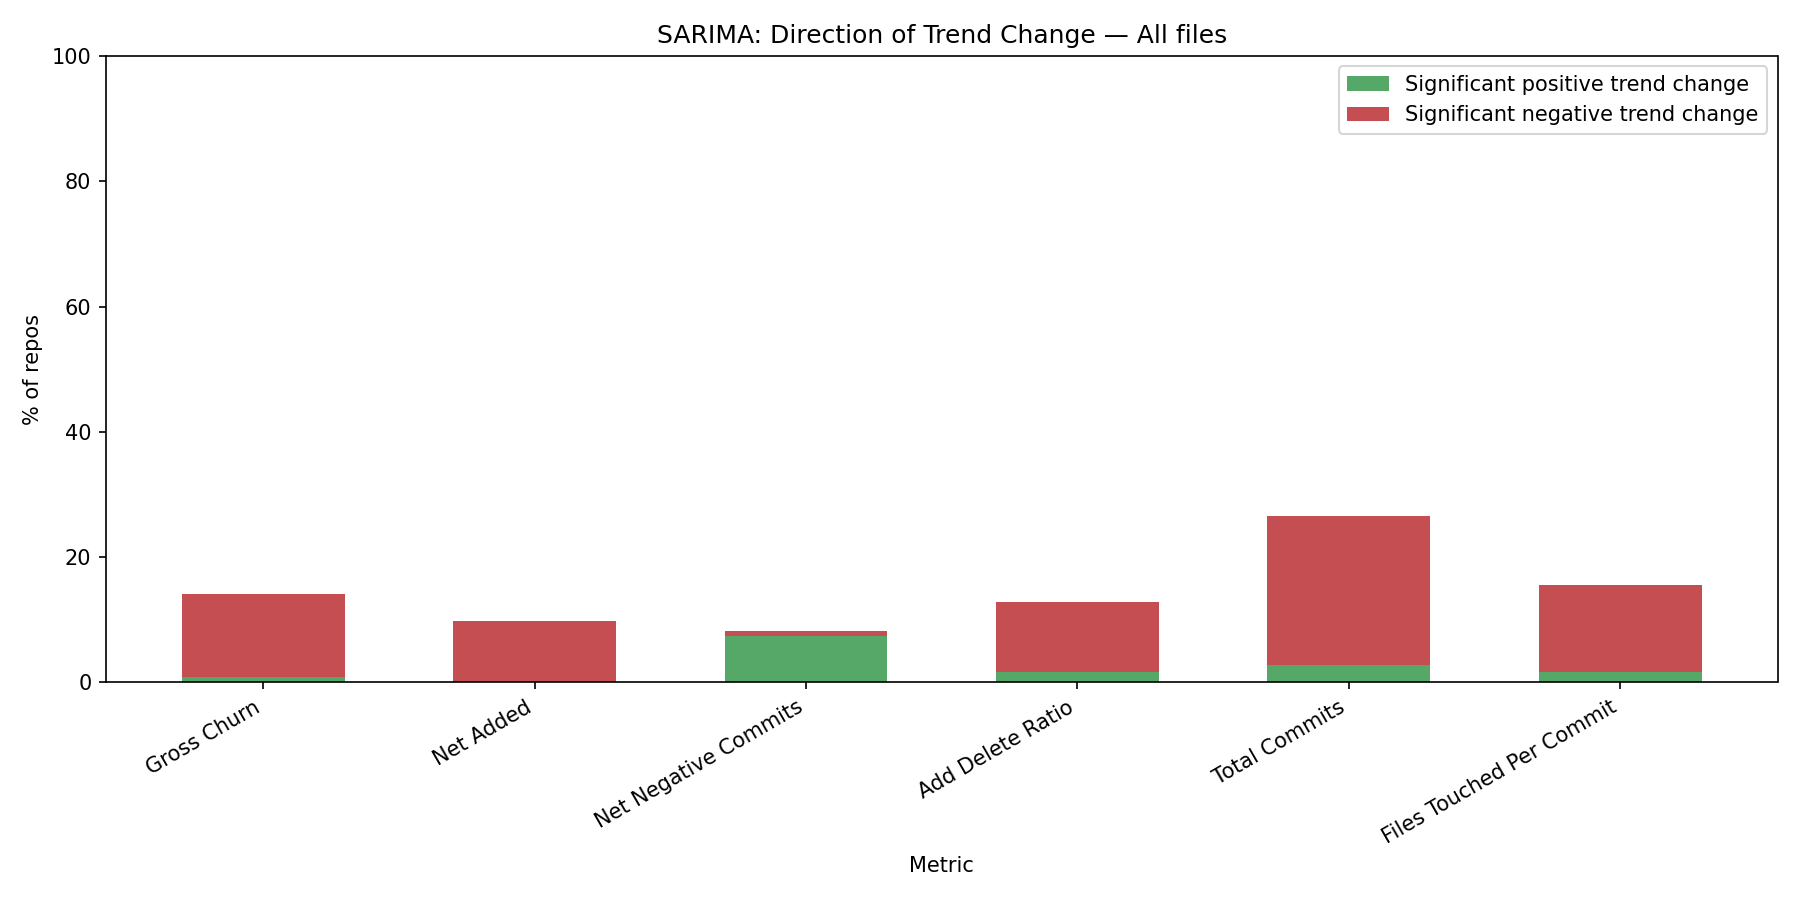
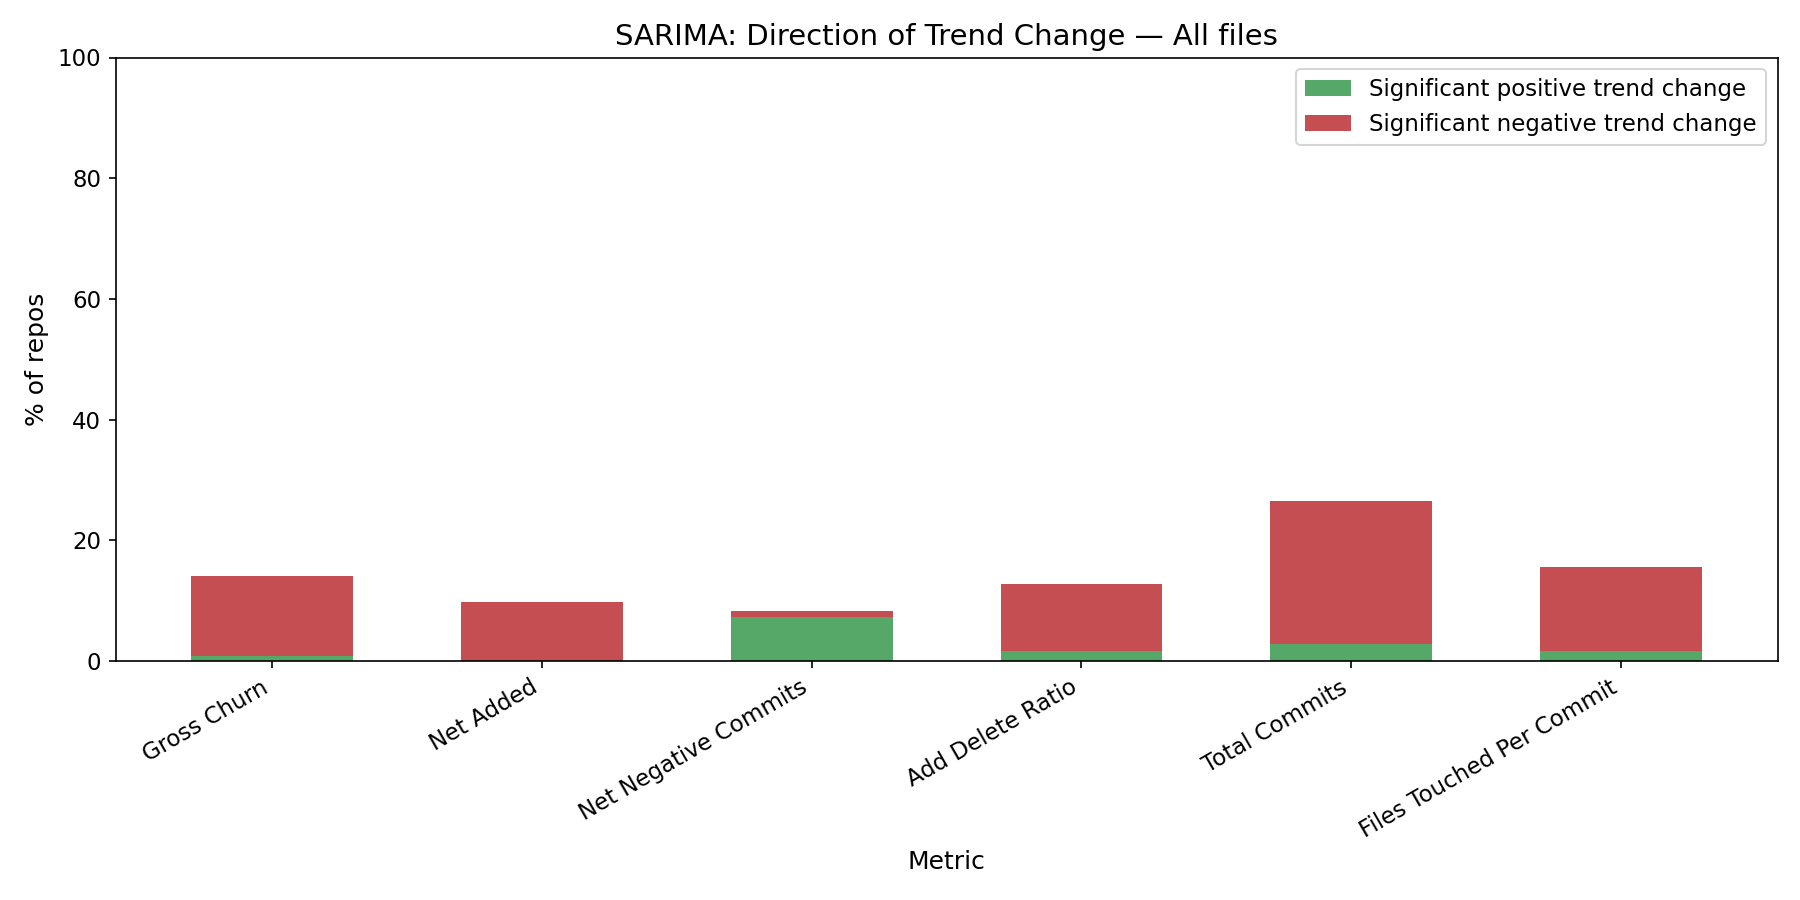
Added some more plots

diff --git a/processing_scripts/arimax_result_plots.py b/processing_scripts/arimax_result_plots.py
@@ -16,6 +16,13 @@ TTEST_CSV = Path("churn_paired_ttest_summary.csv")
 OUTPUT_DIR = Path("arimax_result_plots")
 SIGNIFICANCE_LEVEL = 0.1
 
+# Plot font sizes
+TITLE_FONTSIZE = 14
+AXIS_LABEL_FONTSIZE = 12
+TICK_LABEL_FONTSIZE = 11
+LEGEND_FONTSIZE = 11
+ANNOTATION_FONTSIZE = 10
+
 METRICS = [
     "gross_churn",
     "net_added",
@@ -35,7 +42,6 @@ METRIC_LABELS = {
 print(METRIC_LABELS)
 
 # %%
-
 
 # keep weird characters away from file names (for saving plots)
 def sanitize_filename(text: str) -> str:
@@ -93,9 +99,9 @@ def make_heatmap(df: pd.DataFrame, title: str, cbar_label: str, output_path: Pat
 
     ax.set_xticks(np.arange(df.shape[1]))
     ax.set_yticks(np.arange(df.shape[0]))
-    ax.set_xticklabels(df.columns, rotation=45, ha="right")
-    ax.set_yticklabels(df.index)
-    ax.set_title(title)
+    ax.set_xticklabels(df.columns, rotation=45, ha="right", fontsize=TICK_LABEL_FONTSIZE)
+    ax.set_yticklabels(df.index, fontsize=TICK_LABEL_FONTSIZE)
+    ax.set_title(title, fontsize=TITLE_FONTSIZE)
 
     finite_vals = data[np.isfinite(data)]
     threshold = (finite_vals.max() + finite_vals.min()) / 2 if finite_vals.size else 0.5
@@ -105,10 +111,11 @@ def make_heatmap(df: pd.DataFrame, title: str, cbar_label: str, output_path: Pat
             val = data[i, j]
             label = "NA" if np.isnan(val) else format(val, value_fmt)
             text_color = "white" if (not np.isnan(val) and val > threshold) else "black"
-            ax.text(j, i, label, ha="center", va="center", color=text_color, fontsize=9)
+            ax.text(j, i, label, ha="center", va="center", color=text_color, fontsize=ANNOTATION_FONTSIZE)
     
     cbar = fig.colorbar(im, ax=ax)
-    cbar.set_label(cbar_label)
+    cbar.set_label(cbar_label, fontsize=AXIS_LABEL_FONTSIZE)
+    cbar.ax.tick_params(labelsize=TICK_LABEL_FONTSIZE)
     cbar.ax.yaxis.set_label_position("left")
     fig.tight_layout()
     fig.savefig(output_path, dpi=300, bbox_inches="tight")
@@ -149,20 +156,38 @@ def plot_sarima_significance(summary_df: pd.DataFrame, group: str, output_path: 
     bars2 = ax.bar(x + width / 2, df["trend_sig_pct"] * 100, width, label="Trend change (time_after)", color="#DD8452")
 
     ax.axhline(y=SIGNIFICANCE_LEVEL * 100, color="red", linestyle="--", linewidth=1, label=f"Significance threshold ({int(SIGNIFICANCE_LEVEL * 100)}%)")
-    ax.set_xlabel("Metric")
-    ax.set_ylabel("% of repos with significant effect")
-    ax.set_title(f"SARIMA: Proportion of Repos with Significant Churn Effects — {group} files")
+    ax.set_xlabel("Metric", fontsize=AXIS_LABEL_FONTSIZE)
+    ax.set_ylabel("% of repos with significant effect", fontsize=AXIS_LABEL_FONTSIZE)
+    ax.set_title(
+        f"SARIMA: Proportion of Repos with Significant Churn Effects — {group} files",
+        fontsize=TITLE_FONTSIZE,
+    )
     ax.set_xticks(x)
-    ax.set_xticklabels(df.index, rotation=30, ha="right")
+    ax.set_xticklabels(df.index, rotation=30, ha="right", fontsize=TICK_LABEL_FONTSIZE)
+    ax.tick_params(axis="y", labelsize=TICK_LABEL_FONTSIZE)
     ax.set_ylim(0, 100)
-    ax.legend()
+    ax.legend(fontsize=LEGEND_FONTSIZE)
 
     for bar in bars1:
         h = bar.get_height()
-        ax.text(bar.get_x() + bar.get_width() / 2, h + 1, f"{h:.0f}%", ha="center", va="bottom", fontsize=8)
+        ax.text(
+            bar.get_x() + bar.get_width() / 2,
+            h + 1,
+            f"{h:.0f}%",
+            ha="center",
+            va="bottom",
+            fontsize=ANNOTATION_FONTSIZE,
+        )
     for bar in bars2:
         h = bar.get_height()
-        ax.text(bar.get_x() + bar.get_width() / 2, h + 1, f"{h:.0f}%", ha="center", va="bottom", fontsize=8)
+        ax.text(
+            bar.get_x() + bar.get_width() / 2,
+            h + 1,
+            f"{h:.0f}%",
+            ha="center",
+            va="bottom",
+            fontsize=ANNOTATION_FONTSIZE,
+        )
 
     fig.tight_layout()
     fig.savefig(output_path, dpi=150)
@@ -170,7 +195,7 @@ def plot_sarima_significance(summary_df: pd.DataFrame, group: str, output_path: 
     print(f"Saved chart to {output_path}")
 
 
-def plot_trend_direction(summary_df: pd.DataFrame, group : str, output_path : Path) -> None:
+def plot_trend_direction(summary_df: pd.DataFrame, group : str, output_path : Path, var_prefix : str = "trend") -> None:
     df = summary_df[summary_df["group"] == group].set_index("metric")
     df = df.reindex(default_metric_order(df.index)).dropna()
     df.index = [METRIC_LABELS.get(m, m) for m in df.index]
@@ -178,20 +203,21 @@ def plot_trend_direction(summary_df: pd.DataFrame, group : str, output_path : Pa
     x = np.arange(len(df))
     width = 0.6
 
-    pos = df["trend_pos_sig_pct"] * 100
-    neg = df["trend_neg_sig_pct"] * 100
+    pos = df[f"{var_prefix}_pos_sig_pct"] * 100
+    neg = df[f"{var_prefix}_neg_sig_pct"] * 100
 
     fig, ax = plt.subplots(figsize=(12, 6))
-    ax.bar(x, pos, width, label="Significant positive trend change", color="#55A868")
-    ax.bar(x, neg, width, bottom=pos, label="Significant negative trend change", color="#C44E52")
+    ax.bar(x, pos, width, label=f"Significant positive {var_prefix} change", color="#55A868")
+    ax.bar(x, neg, width, bottom=pos, label=f"Significant negative {var_prefix} change", color="#C44E52")
 
-    ax.set_xlabel("Metric")
-    ax.set_ylabel("% of repos")
-    ax.set_title(f"SARIMA: Direction of Trend Change — {group} files")
+    ax.set_xlabel("Metric", fontsize=AXIS_LABEL_FONTSIZE)
+    ax.set_ylabel("% of repos", fontsize=AXIS_LABEL_FONTSIZE)
+    ax.set_title(f"SARIMA: Direction of {var_prefix.title()} Change — {group} files", fontsize=TITLE_FONTSIZE)
     ax.set_xticks(x)
-    ax.set_xticklabels(df.index, rotation=30, ha="right")
+    ax.set_xticklabels(df.index, rotation=30, ha="right", fontsize=TICK_LABEL_FONTSIZE)
+    ax.tick_params(axis="y", labelsize=TICK_LABEL_FONTSIZE)
     ax.set_ylim(0, 100)
-    ax.legend()
+    ax.legend(fontsize=LEGEND_FONTSIZE)
 
     fig.tight_layout()
     fig.savefig(output_path, dpi=150)
@@ -242,6 +268,7 @@ def main() -> None:
     for group in ["All", "Python", "Javascript"]:
         plot_sarima_significance(arimax_df, group=group, output_path=OUTPUT_DIR / f"churn_sarima_significance_{group.lower()}.png")
         plot_trend_direction(arimax_df, group=group, output_path=OUTPUT_DIR / f"churn_sarima_trend_direction_{group.lower()}.png")
+        plot_trend_direction(arimax_df, group=group, output_path=OUTPUT_DIR / f"churn_sarima_post_direction_{group.lower()}.png", var_prefix="post")
 
     print("Done.")
 

diff --git a/processing_scripts/arimax.py b/processing_scripts/arimax.py
@@ -21,6 +21,7 @@ def fit_best_arimax(y, X):
     order = auto_model.order
  
     # Apply the best order to a SARIMAX model
+    # Seasonal component is disabled.
     model = SARIMAX(
         y,
         exog=X,
